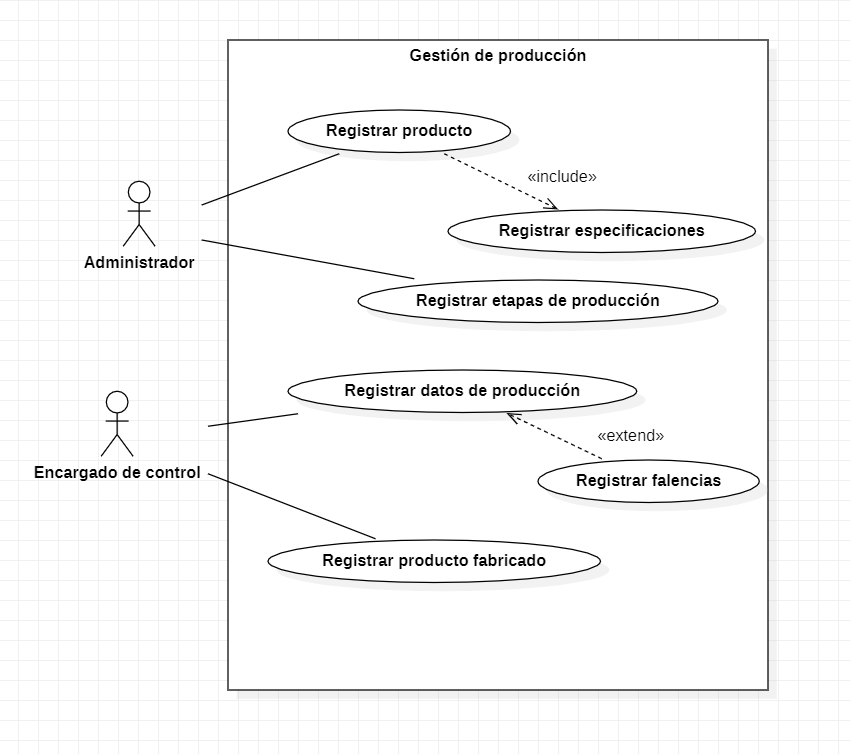
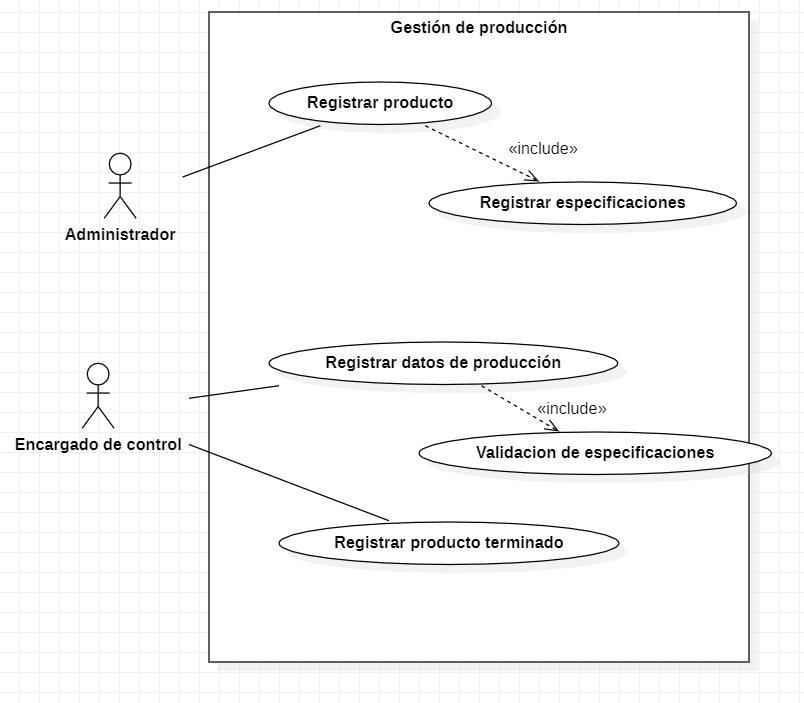
Modificando CU y requerimientos

diff --git a/TP1/README.md b/TP1/README.md
@@ -5,10 +5,9 @@ SITUACION PROBLEMÁTICA: la situación problemática se basa en la falta de un s
 POSIBLE SOLUCION: implementar un sistema de gestión de la calidad o gestión de la producción que permita realizar un seguimiento detallado de cada producto a lo largo de su ciclo de fabricación.
 
 CARACTERISTICAS DEL SISTEMA:
-1. 	Planificación y programación: gestionar el plan de producción
-2.	Gestión de órdenes de trabajo: seguimiento del trabajo, desde el inicio hasta la finalización permitiendo asignar tareas
-3.	Registro y seguimiento de datos: resultado de controles, tiempos de producción, consumos de materiales.
-4.	Control de calidad: realizar inspecciones y controles y registrar resultados asegurando el cumplimiento.
+1. 	Planificación y programación: gestionar el plan de control de calidad
+2.	Registro y seguimiento de datos: resultado de controles, tiempos de producción, consumos de materiales.
+3.	Control de calidad: realizar inspecciones y controles y registrar resultados asegurando el cumplimiento.
 
 BENEFICIOS:
 1.	Centralización de la información: toda la información almacenada en un único sistema.
@@ -19,11 +18,10 @@ BENEFICIOS:
 **REQUERIMIENTOS**
 
 REQUERIMIENTOS FUNCIONALES
-1.	Registro de productos: Funcionalidad para ingresar y almacenar información general de los productos, como nombre, código, descripción y categoría.
-2.	Registro de especificaciones: Capacidad para ingresar y almacenar las especificaciones técnicas detalladas de cada producto, incluyendo medidas, materiales, características específicas, requisitos.
-3.	Registro de etapas de producción: planificación detallada de las etapas de fabricación, asignando recursos, tiempos estimados y secuencia de actividades.
-4.	Registro y seguimiento de datos: registrar y almacenar los datos relevantes de cada etapa de fabricación, como resultados de controles, tiempos de producción y consumos de materiales.
-5.	Registro de productos terminados: registrar la información específica de los productos terminados, como fecha de finalización, número de lote, entre otros.
+1. Registro de productos y especificaciones técnicas: El administrador del sistema puede ingresar los datos del producto, incluyendo su nombre, código y descripción, junto con las especificaciones técnicas correspondientes. Esto generará una plantilla de especificaciones técnicas para el producto.
+2. Seguimiento de resultados de especificaciones técnicas: El controlador, a medida que se fabrica el producto, puede agregar los resultados de cada especificación técnica en base a la plantilla generada. Estos resultados pueden ser numéricos, cualitativos o de cualquier otro tipo según las especificaciones establecidas.
+3. Validación de cumplimiento de estándares: El sistema debe contar con funcionalidades para comparar los resultados de las especificaciones técnicas con los estándares establecidos. Si alguna especificación no cumple con los estándares, el sistema debe identificarla y devolver una notificación o alerta para su revisión.
+4.	Registro de productos terminados: Una vez que se cumplan todas las especificaciones el controlador debera poner el producto en estado de terminado y el mismo se debe almacenar en el stock.
 
 REQUERIMIENTOS NO FUNCIONALES
 1.	Usabilidad: El sistema debe ser fácil de usar y comprender para los usuarios, con una interfaz intuitiva que requiera un mínimo de capacitación.
